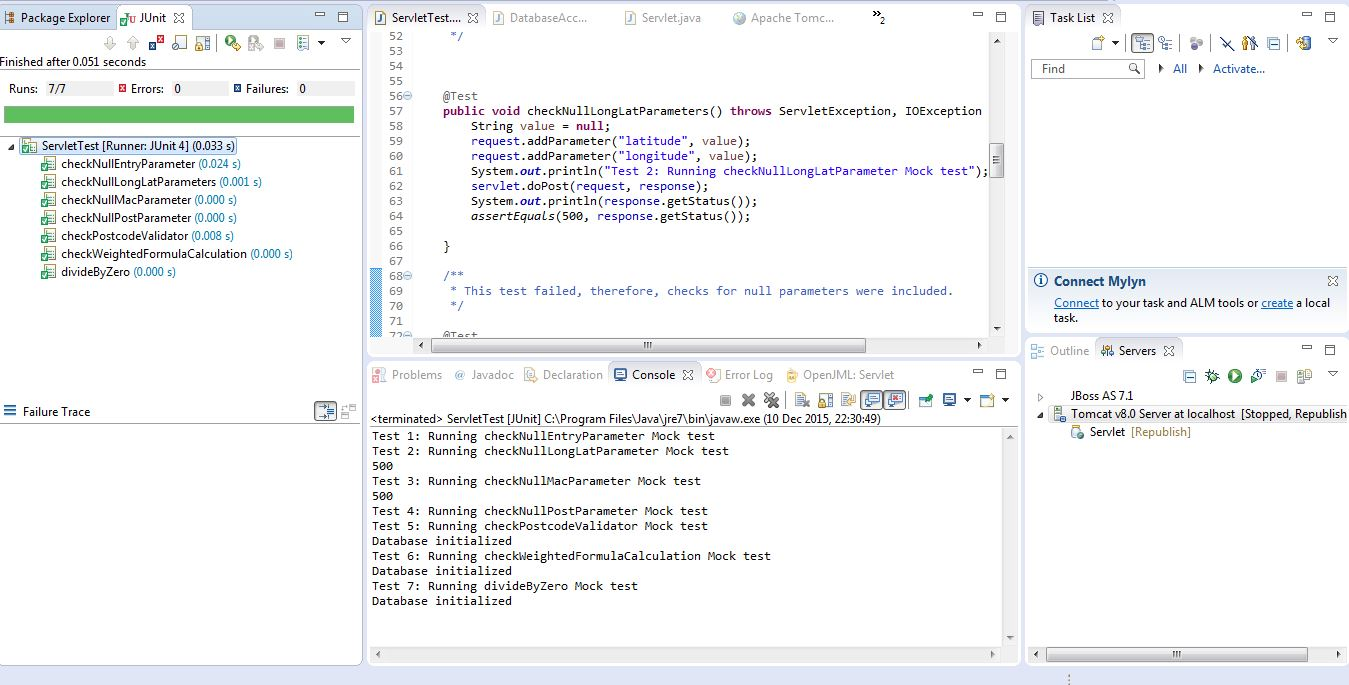
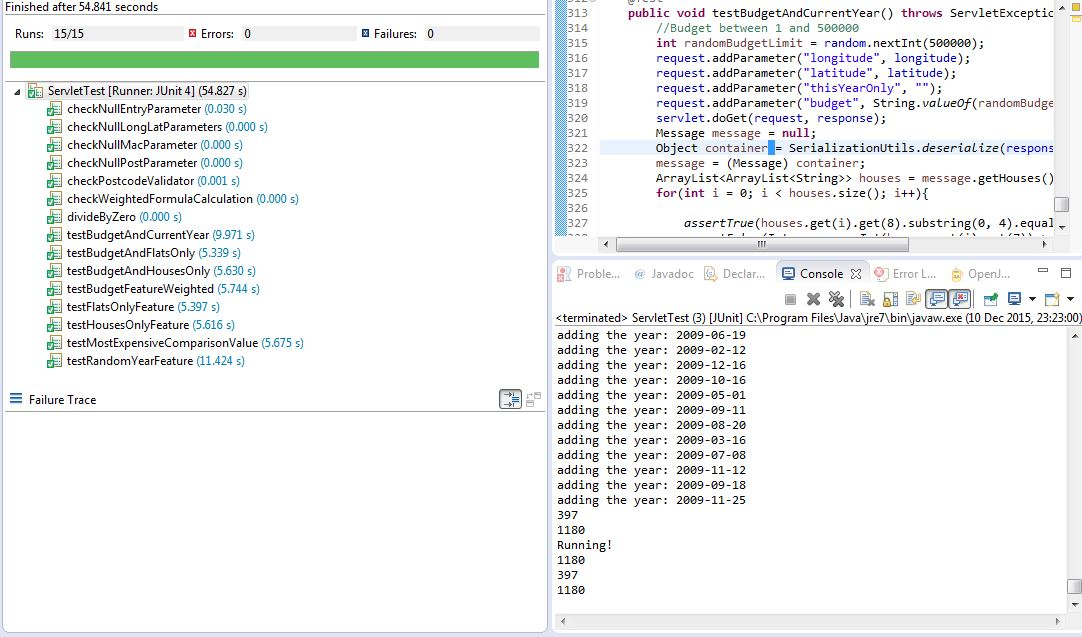
FinishedTests

Changed region(s): [[0.0, 0.0, 1.0, 1.0]]

diff --git a/src/ServletTest.java b/src/ServletTest.java
@@ -315,21 +315,19 @@ public class ServletTest {
 		int randomBudgetLimit = random.nextInt(500000);
 		request.addParameter("longitude", longitude);
 		request.addParameter("latitude", latitude);
-		request.addParameter("thisYearOnly", String.valueOf(randomBudgetLimit));
-		request.addParameter("flatsOnly", "");
+		request.addParameter("thisYearOnly", "");
+		request.addParameter("budget", String.valueOf(randomBudgetLimit));
 		servlet.doGet(request, response);
 		Message message = null;
         Object container = SerializationUtils.deserialize(response.getContentAsByteArray());
 	    message = (Message) container; 
 		ArrayList<ArrayList<String>> houses = message.getHouses();
 		for(int i = 0; i < houses.size(); i++){
-			String value = houses.get(i).get(7).substring(0, 4);
-			assertTrue(houses.get(i).get(7).substring(0, 4).equals("2015"));
-			if(!value.equals("2015")){
-				System.out.println(value);
-			}
+
+			assertTrue(houses.get(i).get(8).substring(0, 4).equals("2015"));
 			assertFalse(Integer.parseInt(houses.get(i).get(7)) > randomBudgetLimit);
 		}
+		System.out.println("ended");
 
 	}
 

diff --git a/src/DatabaseAccessUnitTest.java b/src/DatabaseAccessUnitTest.java
@@ -175,13 +175,14 @@ public class DatabaseAccessUnitTest {
 		//Budget between 1 and 500000
 		int randomBudgetLimit = random.nextInt(500000);
 		database.setThisYearOnly();
-		database.setIsBudgetRequest();
+		//database.setIsBudgetRequest();
+		//database.setbudget(randomBudgetLimit);
 		database.runQueries(longitude, latitude);
 		Message message = database.getMessage();
 		ArrayList<ArrayList<String>> houses = message.getHouses();
 		for(int i = 0; i < houses.size(); i++){
 
-			assertTrue(houses.get(i).get(7).substring(0, 4).equals("2015"));
+			assertTrue(houses.get(i).get(8).substring(0, 4).equals("2015"));
 			assertFalse(Integer.parseInt(houses.get(i).get(7)) > randomBudgetLimit);
 		}
 

diff --git a/src/DatabaseAccess.java b/src/DatabaseAccess.java
@@ -116,6 +116,7 @@ public class DatabaseAccess {
 				} else if(thisYearOnly){
 					int dateSold = Integer.parseInt(rs.getString(9).substring(0,4));
 					int currentYear = calendar.get(Calendar.YEAR);
+	
 					if(dateSold != currentYear){
 						incrementFilterValue(postcode);
 						continue;
@@ -128,7 +129,7 @@ public class DatabaseAccess {
 					}
 				}
 
-
+				System.out.println("adding the year: " + rs.getString(9));
 				ArrayList<String> houseInformation = new ArrayList<String>();
 				houseInformation.add(rs.getString(1));
 				houseInformation.add(rs.getString(2));
